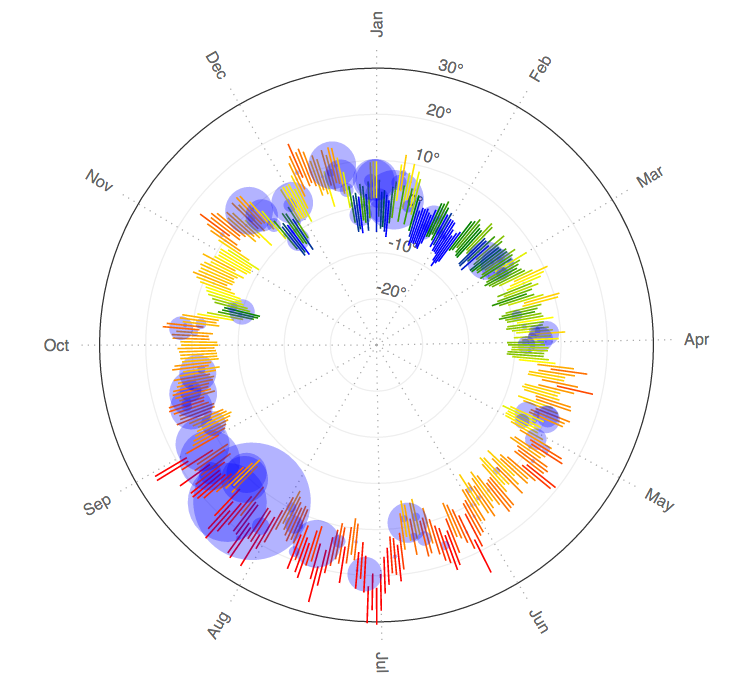
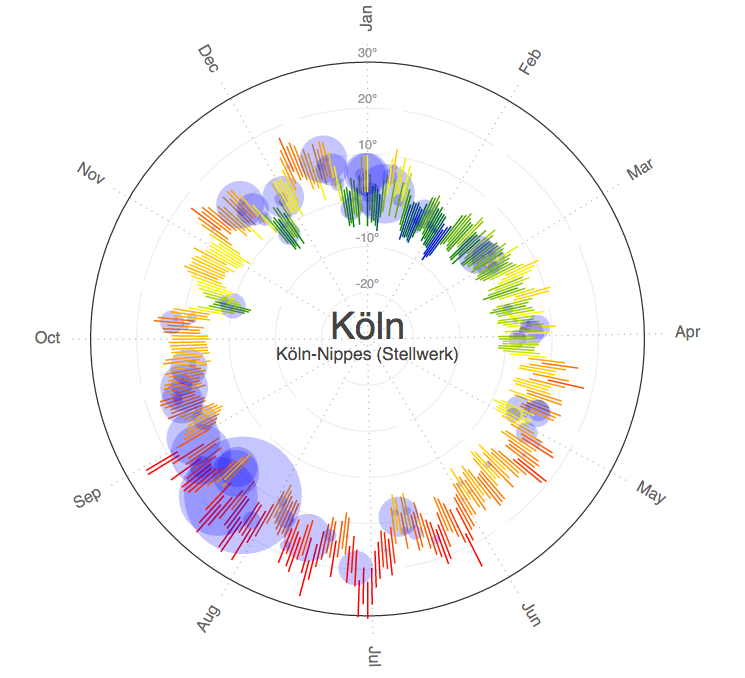
restyle diagram

diff --git a/app.js b/app.js
@@ -1,10 +1,12 @@
 $(function() {
 	d3.json("data.json", function(error, data) {
 
+		// settings
 		var width = 860,
 			height = 600,
 			radius = Math.min(width, height) / 2 - 60;
 
+		// scales and generated values
 		var degree = d3.scale.linear()
 			.domain([-30, 35])
 			.range([0, radius]);
@@ -22,10 +24,10 @@ $(function() {
 		var colors = tinygradient(
 			[{
 				color: 'blue',
-				pos: 0.5
+				pos: 0.45
 			}, {
 				color: 'green',
-				pos: 0.52
+				pos: 0.50
 			}, {
 				color: 'yellow',
 				pos: 0.6
@@ -33,6 +35,7 @@ $(function() {
 				color: 'red',
 				pos: 0.8
 			}]).rgb(Math.floor(radius), true);
+
 		var line = d3.svg.line.radial()
 			.radius(function(d) {
 				return degree(d[1]);
@@ -41,14 +44,16 @@ $(function() {
 				return -d[0] + Math.PI / 2;
 			});
 
+		// adding svg element to body and apply settings
 		var svg = d3.select("body").append("svg")
 			.attr("width", width)
 			.attr("height", height)
 			.append("g")
 			.attr("transform", "translate(" + width / 2 + "," + height / 2 + ")");
 
+		// draw radial degree axis with labels
 		var degreeAxis = svg.append("g")
-			.attr("class", "r axis")
+			.attr("class", "r axis degree")
 			.selectAll("g")
 			.data(degree.ticks(5).slice(1))
 			.enter().append("g");
@@ -60,12 +65,13 @@ $(function() {
 			.attr("y", function(d) {
 				return -degree(d) - 4;
 			})
-			.attr("transform", "rotate(15)")
+			.attr("transform", "rotate(0)")
 			.style("text-anchor", "middle")
 			.text(function(d) {
 				return d + "°";
 			});
 
+		// draw radial month axis with labels
 		var monthAxis = svg.append("g")
 			.attr("class", "a axis month")
 			.selectAll("g")
@@ -80,7 +86,7 @@ $(function() {
 
 		monthAxis.append("text")
 			.attr("x", radius + 6)
-			.attr("dy", ".35em")
+			.attr("dy", ".25em")
 			.style("text-anchor", function(month) {
 				d = time(month);
 				return d < 270 && d > 90 ? "end" : null;
@@ -93,8 +99,7 @@ $(function() {
 				return moment(month).format('MMM');
 			});
 
-
-
+		// draw radial day plots with teperature and rainfall
 		var dayPlot = svg.append("g")
 			.attr("class", "a day")
 			.selectAll("g")
@@ -127,6 +132,18 @@ $(function() {
 				day = moment(day);
 				return "stroke:" + colors[Math.floor(degree(data[day.format('MM')][day.format('DD')].temperature))] + " ;"
 			});
+	
+		// adding a measurement description
+		svg.append("text")
+			.attr("class", "title")
+			.attr("text-anchor", "middle")
+			.attr("y", 0)
+			.text(data.location);
 
+		svg.append("text")
+			.attr("class", "subtitle")
+			.attr("text-anchor", "middle")
+			.attr("y", 17)
+			.text(data.station);
 	});
 });

diff --git a/style.css b/style.css
@@ -8,25 +8,30 @@
   fill: #666;
 }
 
+.axis.degree text{
+  fill:#999;
+    font: 10px sans-serif;
+}
 .axis line,
 .axis circle {
   fill: none;
-  stroke:#AAA;
+  stroke:#BBB;
+  stroke-width: 1px;
   stroke-dasharray: 1,4;
 }
 .axis circle{
   stroke: #EEE;
   fill:none;
-  stroke-dasharray: none;
+  stroke-dasharray: 80,10;
 }
 
 .day line{
   fill: none;
   stroke: #966;
-  stroke-width: 1.3px;
+  stroke-width: 1.2px;
 }
 .day circle{
-  fill:rgba(0, 0, 255, 0.3);
+  fill:rgba(0, 0, 255, 0.23);
 }
 
 .axis :last-of-type circle {
@@ -38,4 +43,13 @@
   fill: none;
   stroke: red;
   stroke-width: 1.5px;
+}
+
+text.title{
+  font: 30px sans-serif;
+  fill: #444;
+}
+text.subtitle{
+  font: 14px sans-serif;
+ fill: #444;
 }
